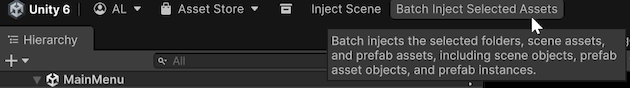
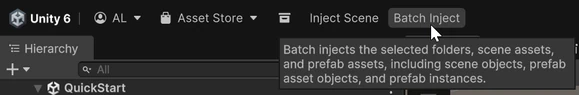
Add documentation for updated inject toolbar

diff --git a/UnityProject/Saneject/Assets/Plugins/Saneject/Editor/Menus/Toolbar/InjectToolbarData.cs b/UnityProject/Saneject/Assets/Plugins/Saneject/Editor/Menus/Toolbar/InjectToolbarData.cs
@@ -1,9 +1,11 @@
 using System;
+using System.ComponentModel;
 using Plugins.Saneject.Editor.Data.Context;
 using Plugins.Saneject.Editor.Utilities;
 
 namespace Plugins.Saneject.Editor.Menus.Toolbar
 {
+    [EditorBrowsable(EditorBrowsableState.Never)]
     public static class InjectToolbarData
     {
         #region Inject scene button

diff --git a/UnityProject/Saneject/Assets/Plugins/Saneject/Editor/Menus/Toolbar/InjectToolbarState.cs b/UnityProject/Saneject/Assets/Plugins/Saneject/Editor/Menus/Toolbar/InjectToolbarState.cs
@@ -1,5 +1,8 @@
-namespace Plugins.Saneject.Editor.Menus.Toolbar
+using System.ComponentModel;
+
+namespace Plugins.Saneject.Editor.Menus.Toolbar
 {
+    [EditorBrowsable(EditorBrowsableState.Never)]
     public readonly struct InjectToolbarState
     {
         private InjectToolbarState(

diff --git a/Docs/docs/editor-and-tooling/injection-toolbar-and-context-menus.md b/Docs/docs/editor-and-tooling/injection-toolbar-and-context-menus.md
@@ -10,9 +10,9 @@ Saneject injection context menus are editor commands that run dependency injecti
 For common full-run workflows, Saneject also exposes contextual main toolbar buttons:
 
 - `Inject Scene`
-- `Inject Selected Scene Hierarchies`
-- `Inject Prefab Asset`
-- `Batch Inject Selected Assets`
+- `Inject Hierarchies`
+- `Inject Prefab`
+- `Batch Inject`
 
 Those toolbar buttons appear only when they apply to the current selection or editor stage, and they always run with `ContextWalkFilter.AllContexts`.
 
@@ -20,14 +20,16 @@ If you are new to contexts and filters, read [Context](../core-concepts/context.
 
 ## Toolbar buttons
 
+> ℹ If you are using Unity 6000.3 or later, you need to **manually enable the Inject toolbar** by right-clicking the toolbar area and selecting `Saneject Inject Toolbar`
+
 The contextual main toolbar buttons cover the most common `AllContexts` runs.
 
 ![Saneject injection toolbar buttons](../../images/injection-main-toolbar.webp)
 
 - `Inject Scene`: shown while editing a scene.
-- `Inject Selected Scene Hierarchies`: shown while editing a scene and one or more scene objects are selected.
-- `Inject Prefab Asset`: shown in Prefab Mode.
-- `Batch Inject Selected Assets`: shown when the Project selection contains one or more scene assets, prefab assets, or folders that contain them.
+- `Inject Hierarchies`: shown while editing a scene and one or more scene objects are selected.
+- `Inject Prefab`: shown in Prefab Mode.
+- `Batch Inject`: shown when the Project selection contains one or more scene assets, prefab assets, or folders that contain them.
 
 For more focused runs, use the injection context menus described below.
 
@@ -149,7 +151,7 @@ See [Context](../core-concepts/context.md).
 
 Entry points:
 
-- Main toolbar: `Batch Inject Selected Assets` (`ContextWalkFilter.AllContexts`)
+- Main toolbar: `Batch Inject` (`ContextWalkFilter.AllContexts`)
 - `Assets/Saneject/Batch Inject Selected Assets/All Contexts`
 - `Assets/Saneject/Batch Inject Selected Assets/Scene Objects`
 - `Assets/Saneject/Batch Inject Selected Assets/Prefab Asset Objects`

diff --git a/Docs/docs/getting-started/feature-overview.md b/Docs/docs/getting-started/feature-overview.md
@@ -46,7 +46,7 @@ description: Explore Saneject features for Unity, including editor-time injectio
 
 ## Tooling & validation
 
-- **Contextual toolbar buttons and injection context menus:** The main toolbar exposes `Inject Scene`, `Inject Selected Scene Hierarchies`, `Inject Prefab Asset`, and `Batch Inject Selected Assets` when they apply, while injection context menus let you run more focused scene, hierarchy, prefab, and selected-asset batch passes with specific context walk filter values.
+- **Contextual toolbar buttons and injection context menus:** The main toolbar exposes `Inject Scene`, `Inject Hierarchies`, `Inject Prefab`, and `Batch Inject` when they apply, while injection context menus let you run more focused scene, hierarchy, prefab, and selected-asset batch passes with specific context walk filter values.
 - **Batch injection:** Batch Injector can inject all (or selected) scenes and prefabs in a project in one click.
 - **Structured logging and validation:** Structured logging and validation with per-run and batch summaries help make dependency validation repeatable and easier to audit.
 - **Configurable settings:** Settings cover injection prompts, logging, context behavior, and proxy generation.

diff --git a/Docs/docs/getting-started/quick-start.md b/Docs/docs/getting-started/quick-start.md
@@ -99,6 +99,8 @@ Run dependency injection via the main toolbar button `Inject Scene`.
 
 ![Inject Scene button](../../images/quick-start-5.webp)
 
+> ℹ If you are using Unity 6000.3 or later, you need to **manually enable the Inject toolbar** by right-clicking the toolbar area and selecting `Saneject Inject Toolbar`
+
 After injection, `Player` has serialized values for `gameStateObservable` and `controller`. Enter Play Mode and the scene runs without a runtime container.
 
 ![Injected result in Player component Inspector](../../images/quick-start-6.webp)

diff --git a/Docs/docs/editor-and-tooling/batch-injection.md b/Docs/docs/editor-and-tooling/batch-injection.md
@@ -31,7 +31,7 @@ Use this when you want a targeted pass for a folder or a specific Project window
 
 Entry points:
 
-- Main toolbar: `Batch Inject Selected Assets` (`ContextWalkFilter.AllContexts`)
+- Main toolbar: `Batch Inject` (`ContextWalkFilter.AllContexts`)
 - Project window context menu: `Assets/Saneject/Batch Inject Selected Assets/All Contexts`
 - Project window context menu: `Assets/Saneject/Batch Inject Selected Assets/Scene Objects`
 - Project window context menu: `Assets/Saneject/Batch Inject Selected Assets/Prefab Asset Objects`
